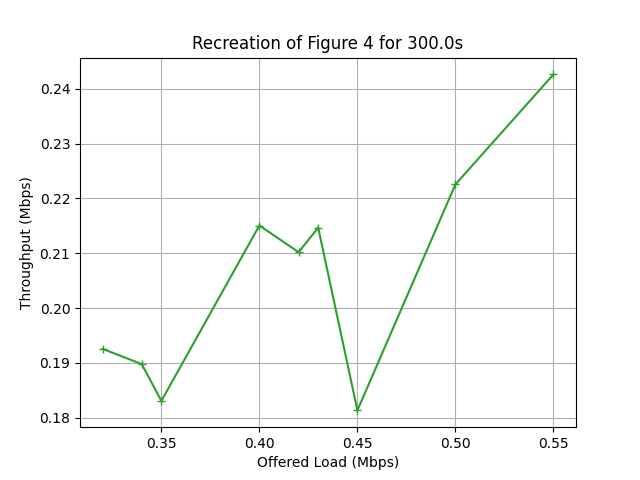
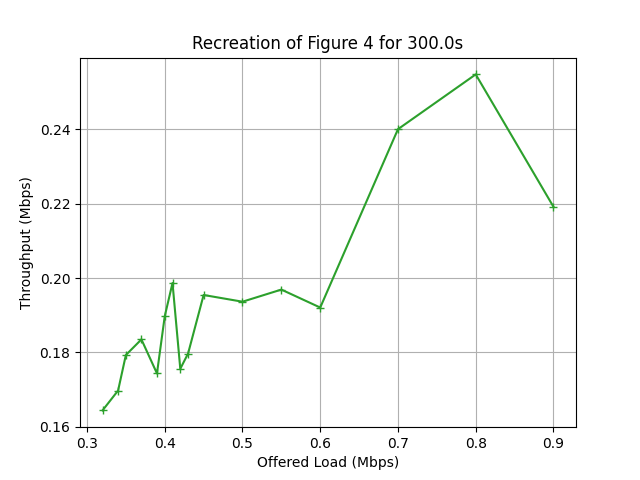
changes

diff --git a/scratch/figure-4.cc b/scratch/figure-4.cc
@@ -108,7 +108,7 @@ int main (int argc, char *argv[])
   bool verbose = false;
   bool tracing = false;
   std::string dir = "outputs"; 
-  std::string dataRate = "2Mbps";
+  double dataRate = 0.45;
  
   CommandLine cmd (__FILE__);
   cmd.AddValue ("phyMode", "Wifi Phy mode", phyMode);
@@ -269,15 +269,19 @@ int main (int argc, char *argv[])
   // Build sender application and install it on the sending node
   OnOffHelper onoffHelper ("ns3::UdpSocketFactory", InetSocketAddress (i.GetAddress (sinkNode),
                                                    receiverPort));
-  // onoffHelper.SetAttribute ("DataRate", DataRateValue (DataRate (dataRate)));
+  onoffHelper.SetAttribute ("DataRate", DataRateValue (DataRate ("2Mbps")));
   uint32_t udpPacketSize = packetSize - UDP_HDR_BYTES - IP_HDR_MIN_BYTES; 
-  onoffHelper.SetConstantRate(dataRate, udpPacketSize);
-  // onoffHelper.SetAttribute ("PacketSize", UintegerValue (udpPacketSize));
+  // onoffHelper.SetConstantRate(dataRate, udpPacketSize);
+  onoffHelper.SetAttribute ("PacketSize", UintegerValue (udpPacketSize));
   // The OnOff application is designed to send packets for an interval ("on"), then stop sending them 
   // for an interval. We "flood" UDP packets as fast as the MAC protocol allows by setting the OffTime 
   // to be 0 and the OnTime to be the duration of the simulation. 
-  // onoffHelper.SetAttribute ("OffTime", StringValue ("ns3::ConstantRandomVariable[Constant=0.0]"));
-  // onoffHelper.SetAttribute ("OnTime", StringValue ("ns3::ConstantRandomVariable[Constant=" + std::to_string(simTime) + "]"));
+  double onTime = packetSize / (2 * pow(10,6) / 8); //time to send one packet at 2MBps
+  double offeredLoad = (dataRate * pow(10,6) / 8 ) / packetSize; //how many packets to send in one second
+  double offTime = 1/offeredLoad - onTime; //stay off as long as it takes to send offerLoad many packets
+  std::cout << "ontime " << std::to_string(onTime) << " offeredLoad " << std::to_string(offeredLoad) << " offTime " << std::to_string(offTime) << std::endl;
+  onoffHelper.SetAttribute ("OffTime", StringValue ("ns3::ConstantRandomVariable[Constant=" + std::to_string(offTime) + "]"));
+  onoffHelper.SetAttribute ("OnTime", StringValue ("ns3::ConstantRandomVariable[Constant=" + std::to_string(onTime) + "]"));
 
   // Install and schedule 
   ApplicationContainer sourceApp = onoffHelper.Install (c.Get(sourceNode));

diff --git a/scratch/plot-figure-4.py b/scratch/plot-figure-4.py
@@ -11,9 +11,7 @@ FILENAME = 'outputs/figure_4_results.txt'
 with open(FILENAME,'r') as f:
     for line in f:
         data = line.split()
-        data_rate_str = data[0]
-        data_rate_str = re.search("[0-9]*", data_rate_str).group()
-        data_rate = int(data_rate_str)/1000.0 # converet Kbps to Mbps
+        data_rate = float(data[0])
         sim_time = float(data[1])
         throughput = float(data[2])
 
